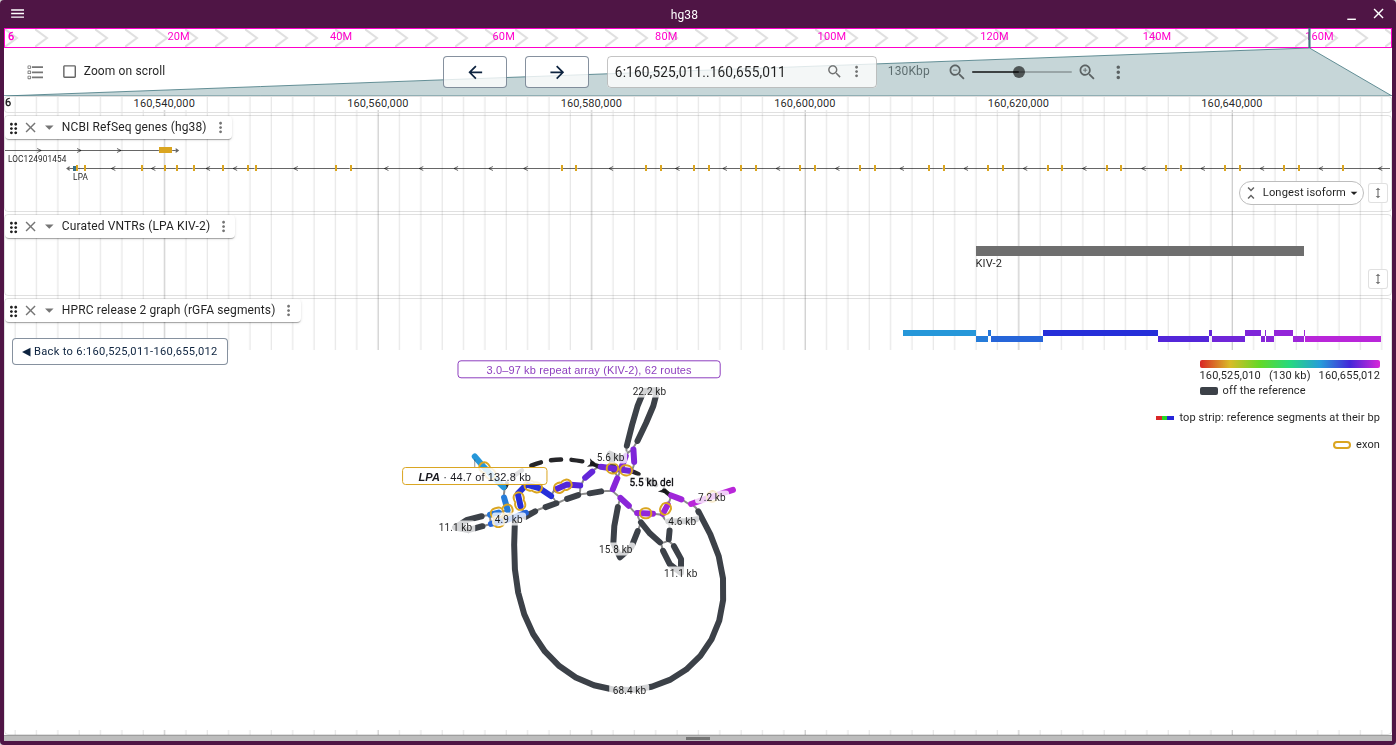
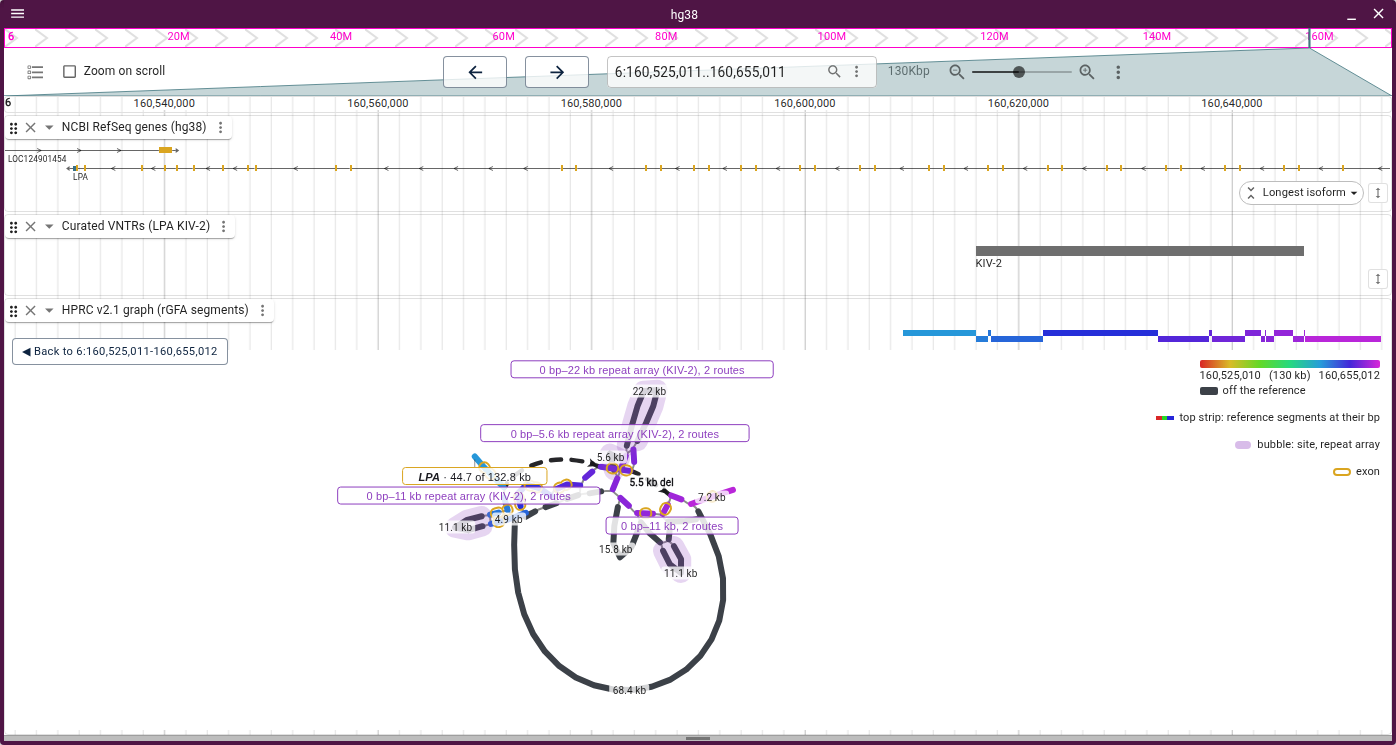
Reshoot the popped KIV-2 figure, its copies now bubbles of their own
The figure script set the annotation colour with setFeatureColor, which the
hosted host no longer has; setColorValue replaces it.

diff --git a/docs/layouts.md b/docs/layouts.md
@@ -194,10 +194,11 @@ to 129 paths, is the halo named "3.0–175 kb repeat array (KIV-2), 129 routes":
 
 A bubble's label opens its nodes on their own, with a button back to the window.
 The popped graph derives its own bubbles, so a superbubble opens level by level.
-Opened in the track, the KIV-2 array keeps its strip, and its reference segments
-sit at their bp under the curated KIV-2 annotation:
+Opened in the track, the KIV-2 array keeps its strip, its reference segments sit
+at their bp under the curated KIV-2 annotation, and each copy-sized loop inside
+it is a bubble to open next:
 
-![The KIV-2 array popped open in the track, its strip under the KIV-2 annotation](../img/force_kiv2_popped.png)
+![The KIV-2 array popped open in the track, its copies marked as bubbles of their own](../img/force_kiv2_popped.png)
 
 ## Haplotype walks
 
